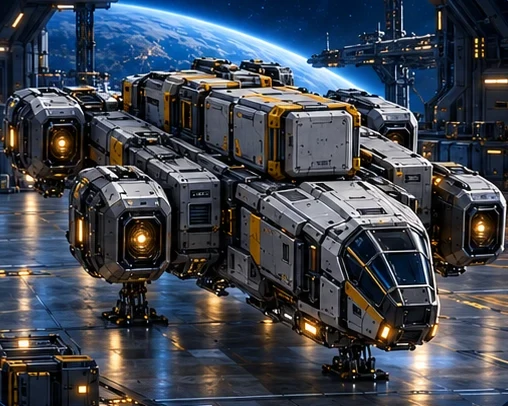
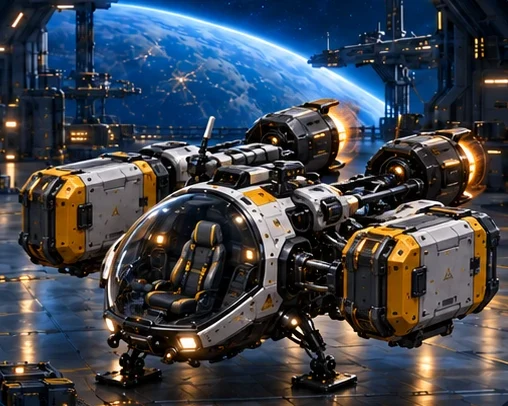
Add pilot select and refresh ship select art
Launching now goes title -> pilot -> ship. HANA (test pilot), ALEX
(explorer) and RHEA (flight engineer) use art cropped from the new
reference; piloting scales turn rate, navigation improves fuel use and
warp, engineering speeds laser cooling, shield regen and FIELD
recharge. ESC on the ship page returns to pilots. Ship cards use the
new reference art (crew 1 each) with a cache-busting query, and the
HUD mode label shows pilot and ship.

diff --git a/index.html b/index.html
@@ -286,7 +286,7 @@
   .cls { margin-top: 6px; padding-bottom: 12px; border-bottom: 1px solid #ffffff1f; font-size: 16px; font-weight: 500;
     letter-spacing: .5em; color: #c9d6ea; }
   .stats3 { margin-top: 8px; }
-  .stat { display: grid; grid-template-columns: 96px minmax(0, 1fr) 44px; align-items: center; gap: 12px; padding: 5px 0;
+  .stat { display: grid; grid-template-columns: 112px minmax(0, 1fr) 44px; align-items: center; gap: 12px; padding: 5px 0;
     font-size: 16px; font-weight: 600; letter-spacing: .06em; color: #dfe8fa; }
   .bars { display: grid; grid-template-columns: repeat(5, 1fr); gap: 6px; }
   .bars i { height: 10px; border-radius: 2px; background: #182842; }
@@ -451,7 +451,7 @@
     .ttl { font-size: 22px; }
     .crew { font-size: 12px; } .crew b { font-size: 14px; }
     .cls { font-size: 11px; padding-bottom: 6px; letter-spacing: .35em; }
-    .stat { grid-template-columns: 64px minmax(0, 1fr) 30px; gap: 8px; padding: 2px 0; font-size: 12px; }
+    .stat { grid-template-columns: 80px minmax(0, 1fr) 30px; gap: 8px; padding: 2px 0; font-size: 12px; }
     .bars i { height: 7px; }
     .pager { font-size: 17px; padding: 4px 14px; gap: 14px; }
     #selBack { font-size: 13px; }
@@ -666,8 +666,8 @@
     </svg>
     <span>ORBIT / <span id="selOrbit">07</span></span><i></i>
   </div>
-  <h1>SELECT YOUR SHIP</h1>
-  <p class="sub">Choose your next flight</p>
+  <h1 id="selTitle">SELECT YOUR PILOT</h1>
+  <p class="sub" id="selSub">Choose your flight profile</p>
   <button class="glass" id="selSound" title="효과음 켜기 / 끄기">
     <svg viewBox="0 0 24 24" fill="#fff" fill-rule="evenodd"><path d="M19.4 13a7.5 7.5 0 0 0 0-2l2.1-1.6-2-3.5-2.5 1a7.6 7.6 0 0 0-1.7-1L15 3.3h-4l-.4 2.6a7.6 7.6 0 0 0-1.7 1l-2.5-1-2 3.5L6.6 11a7.5 7.5 0 0 0 0 2l-2.1 1.6 2 3.5 2.5-1a7.6 7.6 0 0 0 1.7 1l.4 2.6h4l.4-2.6a7.6 7.6 0 0 0 1.7-1l2.5 1 2-3.5zM12 15.5a3.5 3.5 0 1 1 0-7 3.5 3.5 0 0 1 0 7z"/></svg>
   </button>
@@ -675,7 +675,7 @@
   <div class="sel-foot">
     <button id="selBack"><kbd>ESC</kbd>BACK</button>
     <div class="pager"><button id="selPrev" aria-label="이전 기체"></button><span><b id="selIdx">02</b> / 03</span><button id="selNext" aria-label="다음 기체"></button></div>
-    <button id="selGo">CONFIRM SHIP <kbd>&#8629;</kbd></button>
+    <button id="selGo"><span id="selGoT">CONFIRM PILOT</span> <kbd>&#8629;</kbd></button>
   </div>
 </div>
 
@@ -1150,17 +1150,28 @@ function updateBursts(dt) {
 // =====================================================================
 let MAX_SPEED = 32;        // 1 unit = 10 m → 320 m/s (기체별로 바뀜)
 const SHIPS = [
-  { no: '01', name: 'SWIFT', cls: 'SCOUT', crew: 1, stats: [5, 5, 1], img: 'assets/ship-swift.webp',
+  { no: '01', name: 'SWIFT', cls: 'SCOUT', crew: 1, stats: [5, 5, 1], img: 'assets/ship-swift.webp?v=2',
     maxSpeed: 40, turn: 1.3, armor: 1.35, fuelUse: 1.35, fireCd: 0.09,
     perk: '최고 속도 400 m/s · 빠른 선회와 연사 · 장갑과 연료 탱크가 약함' },
-  { no: '02', name: 'NOMAD', cls: 'EXPLORER', crew: 2, stats: [3, 4, 3], img: 'assets/ship-nomad.webp',
+  { no: '02', name: 'NOMAD', cls: 'EXPLORER', crew: 1, stats: [3, 4, 3], img: 'assets/ship-nomad.webp?v=2',
     maxSpeed: 32, turn: 1.1, armor: 1, fuelUse: 1, fireCd: 0.11,
     perk: '최고 속도 320 m/s · 모든 성능이 균형 잡힌 탐사선' },
-  { no: '03', name: 'ATLAS', cls: 'HAULER', crew: 4, stats: [2, 2, 5], img: 'assets/ship-atlas.webp',
+  { no: '03', name: 'ATLAS', cls: 'HAULER', crew: 1, stats: [2, 2, 5], img: 'assets/ship-atlas.webp?v=2',
     maxSpeed: 26, turn: 0.8, armor: 0.65, fuelUse: 0.6, fireCd: 0.13,
     perk: '최고 속도 260 m/s · 두꺼운 장갑 · 대형 연료 탱크' },
 ];
 let shipDef = SHIPS[1];
+// 조종사: PILOTING → 선회, NAVIGATION → 연료 효율·워프, ENGINEERING → 냉각·실드 회복·FIELD 충전
+const PILOTS = [
+  { no: '01', name: 'HANA', cls: 'TEST PILOT', stats: [5, 4, 2], img: 'assets/pilot-hana.webp',
+    perk: '선회 +20% · 연료 효율 +9% · 냉각·회복 −6%' },
+  { no: '02', name: 'ALEX', cls: 'EXPLORER', stats: [4, 5, 3], img: 'assets/pilot-alex.webp',
+    perk: '연료 효율 +15% · 워프 +10% · 선회 +12%' },
+  { no: '03', name: 'RHEA', cls: 'FLIGHT ENGINEER', stats: [3, 4, 5], img: 'assets/pilot-rhea.webp',
+    perk: '레이저 냉각 · 실드 회복 · FIELD 충전 +30%' },
+].map(pl => Object.assign(pl, {
+  turn: .8 + .08 * pl.stats[0], fuel: 1.15 - .06 * pl.stats[1], warp: .9 + .04 * pl.stats[1], tech: .7 + .12 * pl.stats[2] }));
+let pilotDef = PILOTS[1];
 const BOOST = 70;          // 워프 시 추가 속도 (+700 m/s)
 const DOCK_SPEED = 12;     // 120 m/s
 const NAV_RANGES = [300, 800, 2000];
@@ -1229,7 +1240,7 @@ function gameOver(title, reason) {
   state.mode = 'over';
   showCard(`<h1>MISSION FAILED</h1><h2>${title}</h2><p>${reason}</p>
     <div class="stats"><div>SCORE<b>${state.score}</b></div><div>KILLS<b>${state.kills}</b></div><div>ORBIT<b>${String(state.orbit).padStart(2, '0')}</b></div></div>
-    <div class="go"><span class="key-only">ENTER</span><span class="touch-only-i">TAP</span> — 기체 선택</div>`);
+    <div class="go"><span class="key-only">ENTER</span><span class="touch-only-i">TAP</span> — 조종사 · 기체 선택</div>`);
 }
 function docked() {
   if (state.mission === 'oncall') { ocDocked(); return; }
@@ -1288,63 +1299,92 @@ function primaryAction() {
 // =====================================================================
 // 기체 선택 화면
 // =====================================================================
-let selIdx = 1;
+let selIdx = 1, selKind = 'pilot';
 const crewIcon = '<svg viewBox="0 0 16 16"><circle cx="8" cy="4.5" r="3.2"/><path d="M1.5 15.5c0-3.8 2.9-6 6.5-6s6.5 2.2 6.5 6z"/></svg>';
-function buildSelect() {
-  $('selCards').innerHTML = SHIPS.map((s, i) => `
+const SEL = {
+  pilot: { items: PILOTS, title: 'SELECT YOUR PILOT', sub: 'Choose your flight profile', go: 'CONFIRM PILOT',
+    labels: ['PILOTING', 'NAVIGATION', 'ENGINEERING'], crew: false },
+  ship: { items: SHIPS, title: 'SELECT YOUR SHIP', sub: 'Choose your next flight', go: 'CONFIRM SHIP',
+    labels: ['SPEED', 'HANDLING', 'CARGO'], crew: true },
+};
+function buildSelect(kind = selKind) {
+  selKind = kind;
+  const S = SEL[kind];
+  $('selTitle').textContent = S.title;
+  $('selSub').textContent = S.sub;
+  $('selGoT').textContent = S.go;
+  $('selCards').innerHTML = S.items.map((it, i) => `
     <div class="ship-card" data-i="${i}">
       <div class="tab">SELECTED</div>
-      <div class="art"><img src="${s.img}" alt="${s.name} ${s.cls}" draggable="false"></div>
+      <div class="art"><img src="${it.img}" alt="${it.name} ${it.cls}" draggable="false"></div>
       <div class="info">
-        <div class="ttl"><span class="no">${s.no} /</span>${s.name}<span class="crew">${crewIcon}CREW <b>${s.crew}</b></span></div>
-        <div class="cls">${s.cls}</div>
-        <div class="stats3">${['SPEED', 'HANDLING', 'CARGO'].map((l, k) => `
-          <div class="stat"><span>${l}</span><div class="bars">${[0, 1, 2, 3, 4].map(n => `<i${n < s.stats[k] ? ' class="on"' : ''}></i>`).join('')}</div><em>${s.stats[k]} / 5</em></div>`).join('')}
+        <div class="ttl"><span class="no">${it.no} /</span>${it.name}${S.crew ? `<span class="crew">${crewIcon}CREW <b>${it.crew}</b></span>` : ''}</div>
+        <div class="cls">${it.cls}</div>
+        <div class="stats3">${S.labels.map((l, k) => `
+          <div class="stat"><span>${l}</span><div class="bars">${[0, 1, 2, 3, 4].map(n => `<i${n < it.stats[k] ? ' class="on"' : ''}></i>`).join('')}</div><em>${it.stats[k]} / 5</em></div>`).join('')}
         </div>
-        <div class="perk">${s.perk}</div>
+        <div class="perk">${it.perk}</div>
       </div>
     </div>`).join('');
   document.querySelectorAll('.ship-card').forEach(c => {
     c.addEventListener('click', () => {
       const i = +c.dataset.i;
-      if (i === selIdx) confirmShip(); else { selIdx = i; renderSelect(); sfx('laser', 500); }
+      if (i === selIdx) confirmSel(); else { selIdx = i; renderSelect(); sfx('laser', 500); }
     });
   });
+  $('selCards').animate([{ opacity: 0, transform: 'translateY(12px)' }, { opacity: 1, transform: 'none' }], { duration: 320, easing: 'ease-out' });
 }
 function renderSelect() {
   document.querySelectorAll('.ship-card').forEach(c => c.classList.toggle('sel', +c.dataset.i === selIdx));
-  $('selIdx').textContent = SHIPS[selIdx].no;
+  $('selIdx').textContent = SEL[selKind].items[selIdx].no;
   $('selSound').classList.toggle('muted', !state.sound);
 }
 function openSelect() {
   hideCard();
   state.mode = 'select';
-  selIdx = SHIPS.indexOf(shipDef);
+  buildSelect('pilot');
+  selIdx = PILOTS.indexOf(pilotDef);
   $('select').classList.remove('hidden');
   renderSelect();
 }
+function openShipSelect() {
+  buildSelect('ship');
+  selIdx = SHIPS.indexOf(shipDef);
+  renderSelect();
+}
 function closeSelect() { $('select').classList.add('hidden'); }
-function stepSelect(d) { selIdx = (selIdx + d + SHIPS.length) % SHIPS.length; renderSelect(); sfx('laser', 500); }
+function stepSelect(d) { const n = SEL[selKind].items.length; selIdx = (selIdx + d + n) % n; renderSelect(); sfx('laser', 500); }
+function confirmSel() {
+  if (selKind === 'pilot') {
+    pilotDef = PILOTS[selIdx];
+    sfx('warpOut');
+    openShipSelect();
+  } else confirmShip();
+}
+function selBack() {
+  if (selKind === 'ship') { buildSelect('pilot'); selIdx = PILOTS.indexOf(pilotDef); renderSelect(); }
+  else { closeSelect(); showTitle(); }
+}
 function confirmShip() {
-  shipDef = SHIPS[selIdx];
+  shipDef = SHIPS[selKind === 'ship' ? selIdx : SHIPS.indexOf(shipDef)];
   MAX_SPEED = shipDef.maxSpeed;
   closeSelect();
   startGame();
   sfx('warpIn');
-  toast(`${shipDef.name} LAUNCH`, '#ffb23e');
+  toast(`${pilotDef.name} · ${shipDef.name} LAUNCH`, '#ffb23e');
   if (isTouch && innerHeight > innerWidth) setTimeout(() => toast('가로 화면으로 돌리면 더 넓게 보여요', '#9fc6ff'), 1800);
 }
 function selectKey(code) {
   if (code === 'ArrowLeft' || code === 'KeyA') stepSelect(-1);
   else if (code === 'ArrowRight' || code === 'KeyD') stepSelect(1);
   else if (code === 'Digit1' || code === 'Digit2' || code === 'Digit3') { selIdx = +code.slice(5) - 1; renderSelect(); }
-  else if (code === 'Enter') confirmShip();
-  else if (code === 'Escape') { closeSelect(); showTitle(); }
+  else if (code === 'Enter') confirmSel();
+  else if (code === 'Escape') selBack();
 }
 $('selPrev').addEventListener('click', () => stepSelect(-1));
 $('selNext').addEventListener('click', () => stepSelect(1));
-$('selGo').addEventListener('click', confirmShip);
-$('selBack').addEventListener('click', () => { closeSelect(); showTitle(); });
+$('selGo').addEventListener('click', confirmSel);
+$('selBack').addEventListener('click', selBack);
 $('selSound').addEventListener('click', e => {
   initAudio();
   state.sound = !state.sound;
@@ -1488,11 +1528,11 @@ function updateShip(dt, controlled) {
     if (keys.KeyS) state.throttle = Math.max(0, state.throttle - dt * 0.5);
     state.boosting = (keys.ShiftLeft || keys.ShiftRight) && state.fuel > 0;
     if (state.fuel <= 0) state.throttle = 0;
-    state.fuel = Math.max(0, state.fuel - dt * (state.throttle * 0.42 + (state.boosting ? 1.6 : 0)) * shipDef.fuelUse);
+    state.fuel = Math.max(0, state.fuel - dt * (state.throttle * 0.42 + (state.boosting ? 1.6 : 0)) * shipDef.fuelUse * pilotDef.fuel);
   } else state.boosting = false;
 
   const sm = 1 - Math.exp(-dt * 4);
-  const tr = shipDef.turn;
+  const tr = shipDef.turn * pilotDef.turn;
   rate.p += (pi * 0.95 * tr - rate.p) * sm;
   rate.y += (yi * 0.8 * tr - rate.y) * sm;
   rate.r += (ri * 1.6 * tr - rate.r) * sm;
@@ -1505,7 +1545,7 @@ function updateShip(dt, controlled) {
   if (prevWarp < 0.04 && state.warp >= 0.04) warpEngage();
   if (prevWarp > 0.5 && state.warp <= 0.5 && !state.boosting) warpDisengage();
   const w = state.warp * state.warp * (3 - 2 * state.warp);
-  const target = state.throttle * MAX_SPEED + BOOST * w;
+  const target = state.throttle * MAX_SPEED + BOOST * pilotDef.warp * w;
   state.speed += (target - state.speed) * (1 - Math.exp(-dt * (state.boosting ? 2.2 : 1.2)));
   shipBasis();
   ship.position.addScaledVector(fwd, state.speed * dt);
@@ -1617,7 +1657,7 @@ function segDist(a, b, p) {
 let fireCd = 0, gunSide = 1;
 function playerFire(dt) {
   fireCd -= dt;
-  state.heat = Math.max(0, state.heat - dt * 26);
+  state.heat = Math.max(0, state.heat - dt * 26 * pilotDef.tech);
   if (state.overheat && state.heat < 35) state.overheat = false;
   if (!keys.Space || fireCd > 0 || state.overheat) return;
   fireCd = shipDef.fireCd;
@@ -3111,7 +3151,7 @@ function exUpdate(dt, now) {
   if (!ex.mission && ex.era < 3 && ex.cum >= ERAS[ex.era + 1].at) { ex.era++; ex.phase = 1; exEraCard(ex.era); return; }
   // 레이트 리밋 필드
   if (ex.fieldOn) {
-    ex.field = Math.min(100, ex.field + dt * 12.5);
+    ex.field = Math.min(100, ex.field + dt * 12.5 * pilotDef.tech);
     if (keys.KeyQ && !ex.qPrev) exFieldPulse();
   }
   ex.qPrev = !!keys.KeyQ;
@@ -4046,7 +4086,7 @@ function updateHud() {
   let best = 0;
   lvls.forEach((l, i) => { if (Math.abs(t - l) < Math.abs(t - lvls[best])) best = i; });
   modeEls.forEach((el, i) => el.classList.toggle('on', i === best));
-  $('modeLbl').textContent = shipDef.name + '  ·  ' + (ocm ? 'ON-CALL' : exWorld.visible ? 'EXPANSION' : state.mode === 'docked' ? 'DOCKED' : state.warp > 0.3 ? 'WARP DRIVE' : state.nearDock ? 'APPROACH' : 'FREE FLIGHT');
+  $('modeLbl').textContent = pilotDef.name + ' · ' + shipDef.name + '  ·  ' + (ocm ? 'ON-CALL' : exWorld.visible ? 'EXPANSION' : state.mode === 'docked' ? 'DOCKED' : state.warp > 0.3 ? 'WARP DRIVE' : state.nearDock ? 'APPROACH' : 'FREE FLIGHT');
   if (ocm) ocHud();
   else if (exWorld.visible) exHud();
   else {
@@ -4079,7 +4119,7 @@ function loop() {
     state.missionT += dt;
     state.hitT = Math.max(0, state.hitT - dt);
     state.sinceHit += dt;
-    if (state.sinceHit > 4) state.shield = Math.min(100, state.shield + dt * 3);
+    if (state.sinceHit > 4) state.shield = Math.min(100, state.shield + dt * 3 * pilotDef.tech);
     updateShip(dt, true);
     playerFire(dt);
     updateBeacons();
@@ -4133,7 +4173,7 @@ function showTitle() {
     <button class="mbtn${state.mission === 'oncall' ? ' on' : ''}" data-act="m-oncall"><b>ON-CALL</b><span>관제 파일럿 · 결제 API 장애 대응</span></button>
     <button class="mbtn${state.mission === 'expansion' ? ' on' : ''}" data-act="m-expansion"><i>NEW</i><b>EXPANSION</b><span>로그로 팽창하는 넥슨 우주</span></button>
   </div>
-  <div class="go"><span class="key-only">ENTER</span><span class="touch-only-i">TAP</span> — 기체 선택</div>`);
+  <div class="go"><span class="key-only">ENTER</span><span class="touch-only-i">TAP</span> — 조종사 · 기체 선택</div>`);
 }
 showTitle();
 buildSelect();
